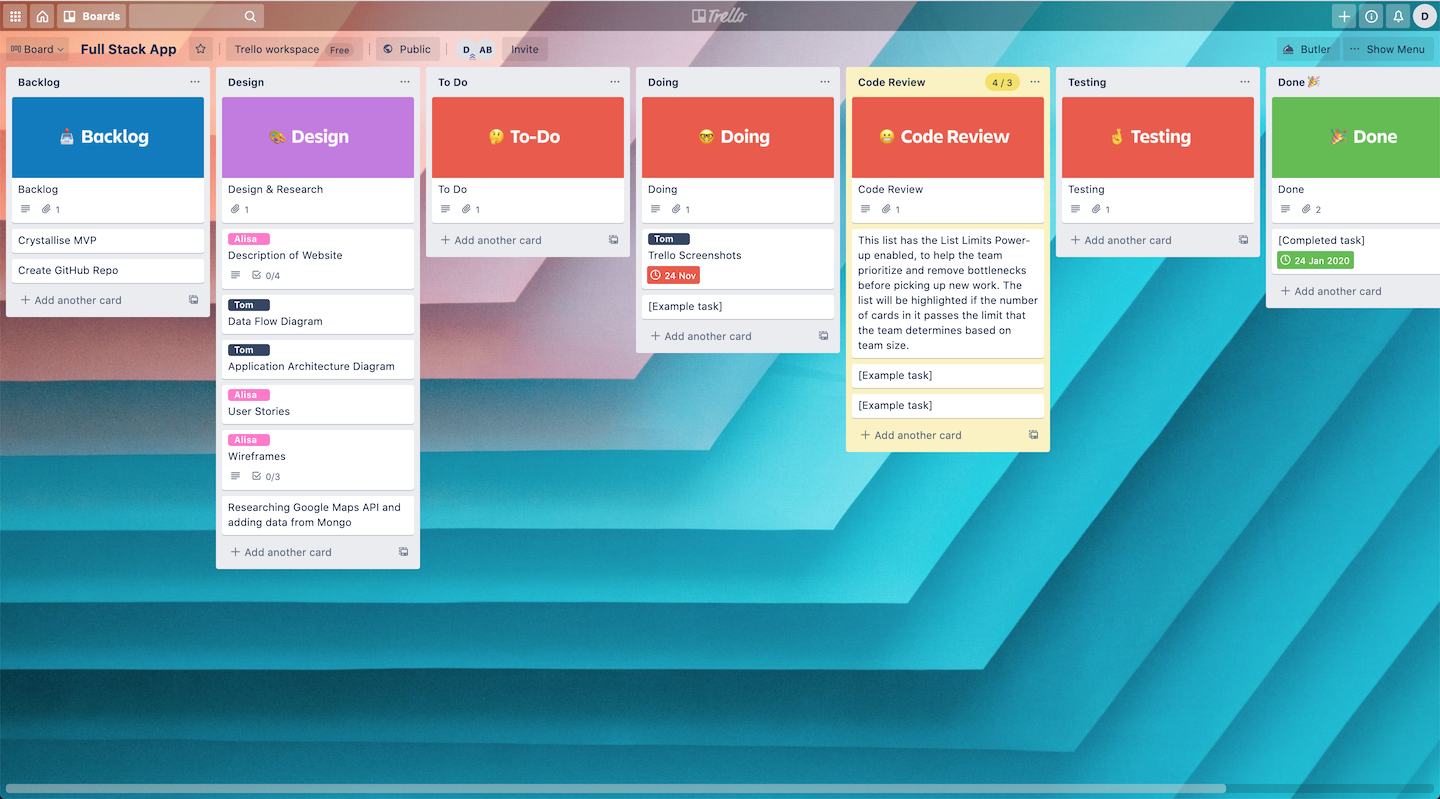
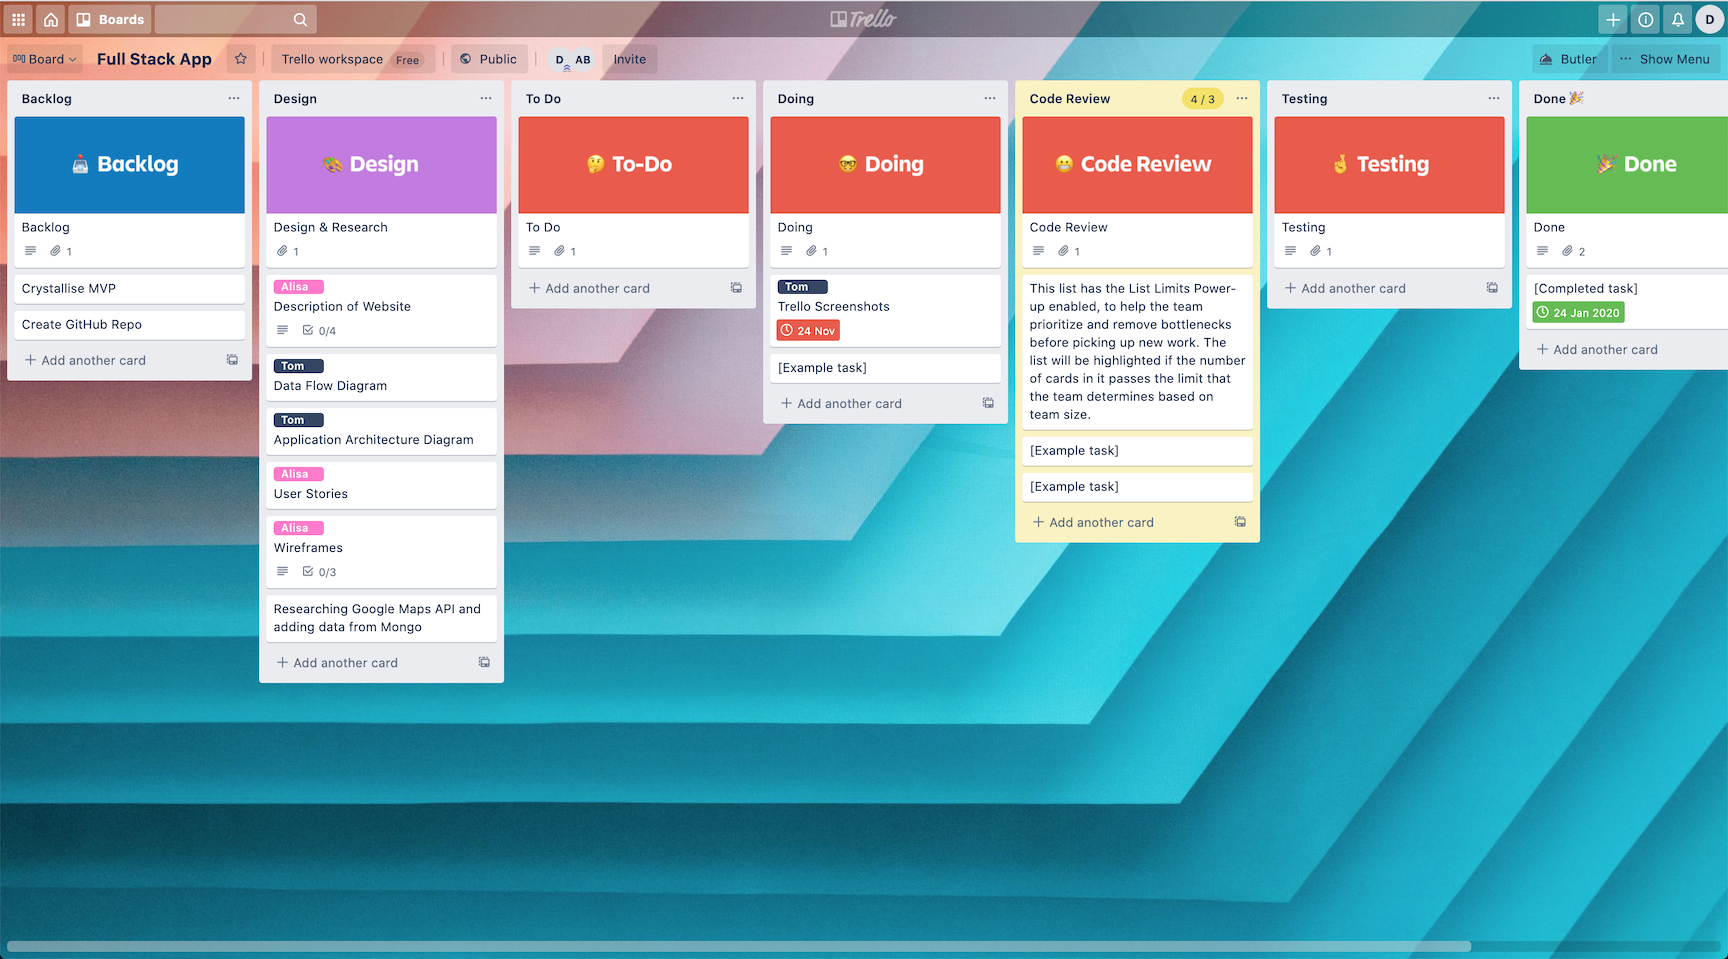
small changes

diff --git a/README.md b/README.md
@@ -1,4 +1,6 @@
-R1	Description of your website, including:
+# T3A2-A - MERN Application
+
+## R1. Description of your website, including:
 - Purpose
 - Functionality / features
 - Target audience
@@ -24,14 +26,17 @@ The target audiences are:
 
 Tech stack: 
 MERN
+
 ---
 ## R2. Dataflow Diagram	
 
 ![Dataflow Diagram](./Diagrams/DDF.jpeg)
+
 ---
 ## R3. Application Architecture Diagram
 
 ![Architectural Diagram](./Diagrams/AAD.jpg)
+
 ---
 ## R4. User Stories	
 
@@ -43,3 +48,9 @@ MERN
 ## R6. Screenshots of your Trello board throughout the duration of the project	
 
 ![Screenshot 1](./Trello_Screenshots/ScrnSht_1.png)
+
+![Screenshot 2](./Trello_Screenshots/ScrnSht_2.png)
+
+![Screenshot 3](./Trello_Screenshots/ScrnSht_3.png)
+
+![Screenshot 4](./Trello_Screenshots/ScrnSht_4.png)
